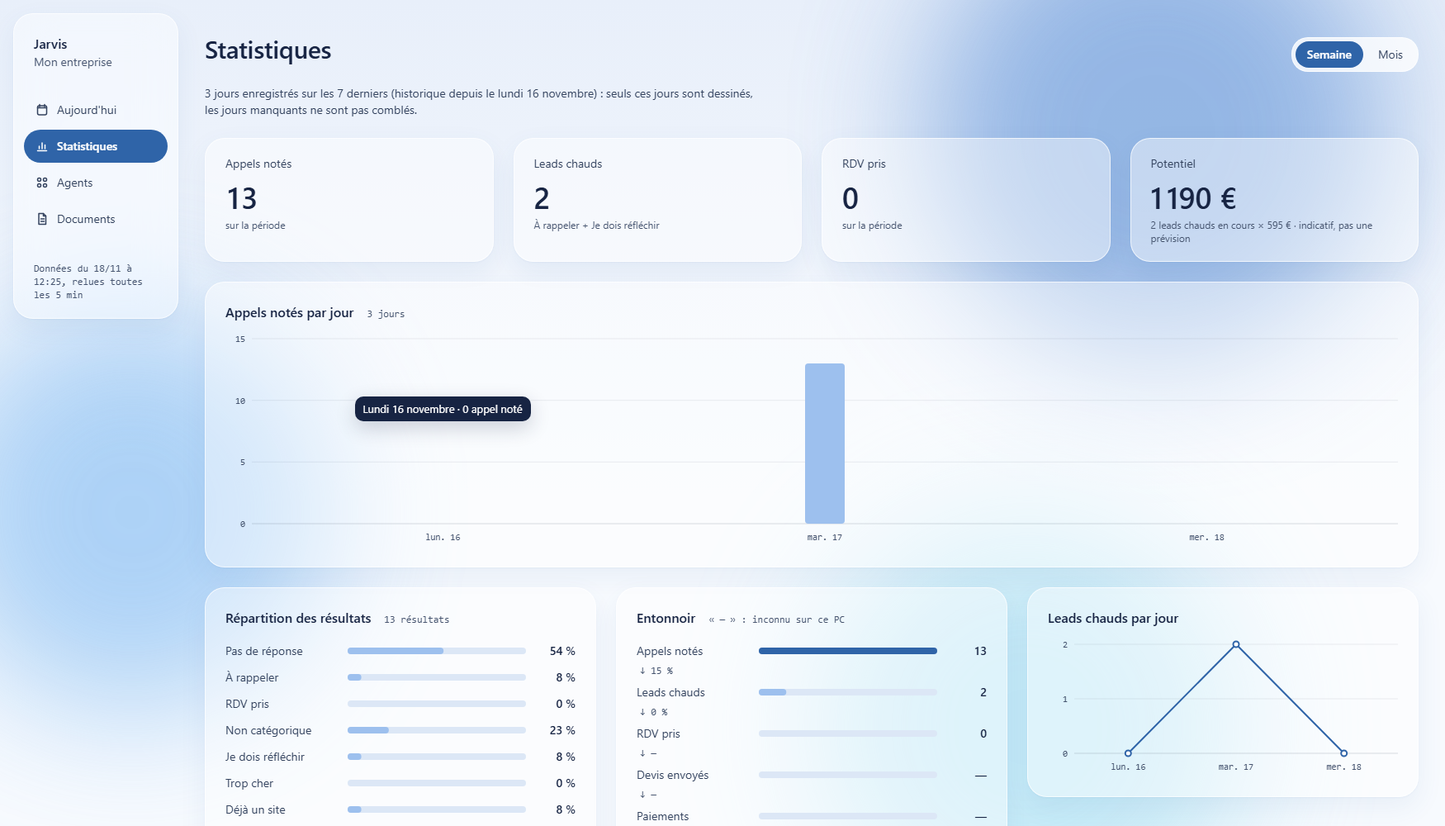
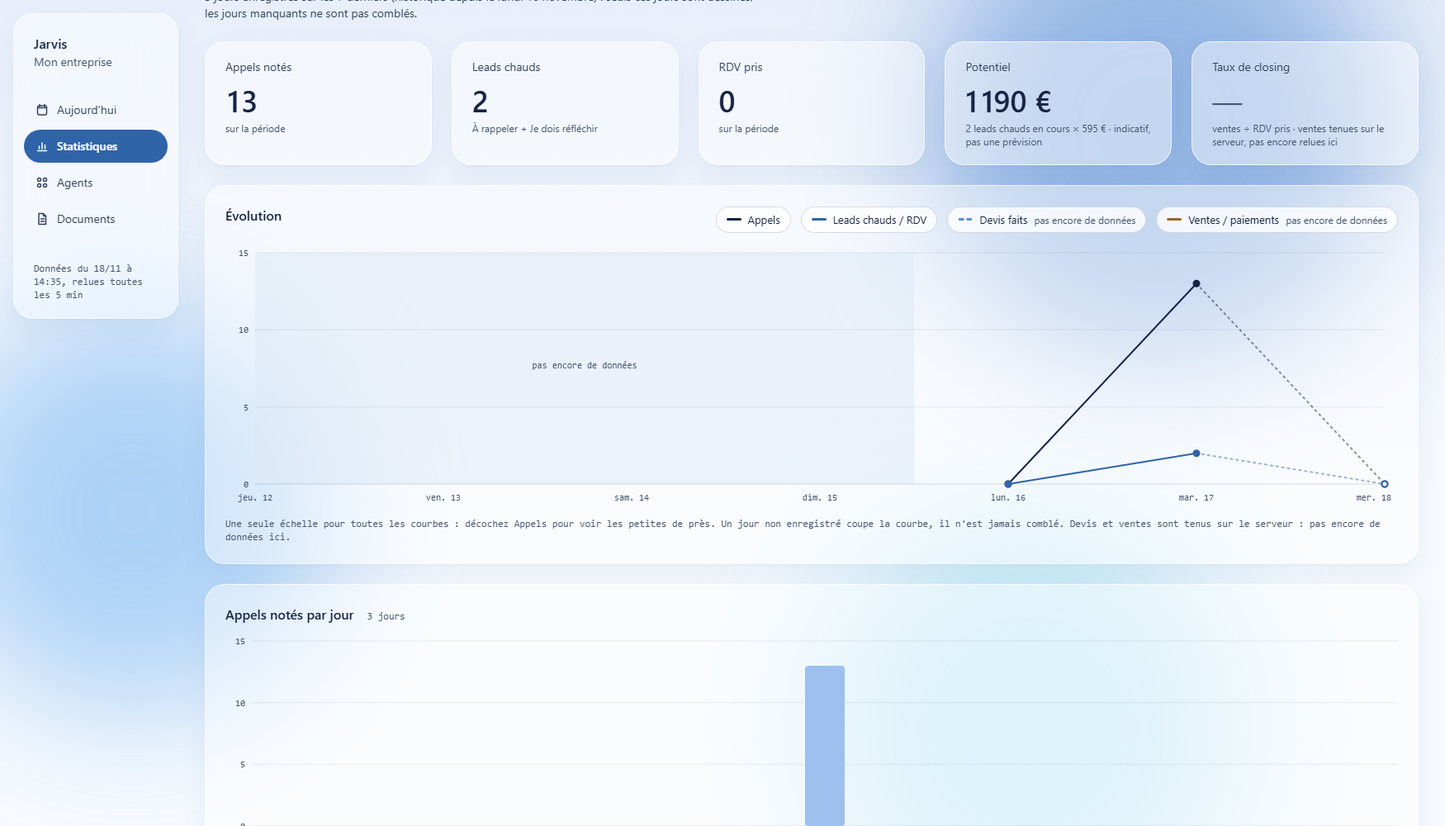
Statistiques : graphique Évolution façon bourse (une courbe cochable par catégorie : appels, leads chauds + RDV, devis en tirets, ventes en ocre ; 7 jours, 30 jours, 1 an sur un vrai axe du temps ; zone « pas encore de données » avant le 16/11 ; un jour absent ou inconnu coupe la courbe ; jour en co
Claude-Session: 57a2f80a-2698-4f2e-b82a-0145204d23a1

diff --git a/dashboard/index.html b/dashboard/index.html
@@ -155,7 +155,7 @@
   .choix { display: inline-flex; gap: 4px; padding: 4px; border-radius: 20px; background: var(--verre-fort); border: 1px solid var(--bord-verre); }
   .choix button { height: 32px; padding: 0 14px; border: 0; border-radius: 16px; background: none; color: var(--doux); cursor: pointer; transition: background-color .2s var(--courbe), color .2s var(--courbe); }
   .choix button[aria-pressed="true"] { background: var(--bleu); color: #fff; font-weight: 500; }
-  .stat-ligne { display: grid; grid-template-columns: repeat(4, minmax(0, 1fr)); gap: 24px; margin: 0; padding: 0; list-style: none; }
+  .stat-ligne { display: grid; grid-template-columns: repeat(5, minmax(0, 1fr)); gap: 24px; margin: 0; padding: 0; list-style: none; }
   .stat-ligne li { padding: 20px 24px; display: flex; flex-direction: column; }
   .stat-ligne span { color: var(--doux); } .stat-ligne b { font-size: 36px; line-height: 44px; font-weight: 600; letter-spacing: -.02em; font-variant-numeric: tabular-nums; margin: 8px 0 0; }
   .stat-ligne b.manque { color: var(--faible); font-weight: 400; } .stat-ligne small { color: var(--faible); font-size: 12px; line-height: 16px; margin-top: 4px; }
@@ -172,7 +172,14 @@
   .taux { padding: 0 0 0 4px; margin: 0 0 2px; color: var(--faible); font-family: var(--mono); font-size: 12px; line-height: 16px; }
   .phrase-histo { color: var(--doux); margin: -8px 0 24px; max-width: 90ch; }
   #bulle { position: fixed; z-index: 20; pointer-events: none; padding: 6px 10px; border-radius: 10px; background: var(--nuit); color: #fff; font-size: 13px; line-height: 18px; white-space: nowrap; box-shadow: 0 8px 24px rgba(23,36,67,.2); opacity: 0; transition: opacity .12s var(--courbe); }
-  #bulle.vu { opacity: 1; }
+  #bulle.vu { opacity: 1; } #bulle { white-space: pre; }
+  .courbes { display: flex; flex-wrap: wrap; gap: 8px; justify-content: flex-end; }
+  .courbes button { display: inline-flex; align-items: center; gap: 8px; min-height: 32px; padding: 0 12px; border-radius: 16px; border: 1px solid var(--ligne-forte); background: var(--verre-fort); color: var(--texte); cursor: pointer; font: inherit; font-size: 13px; transition: opacity .2s var(--courbe); }
+  .courbes button[aria-pressed="false"] { opacity: .5; } .courbes small { color: var(--faible); font-size: 12px; }
+  .trait { width: 18px; border-top: 3px solid var(--c); border-radius: 2px; } .trait.tirets { border-top-style: dashed; }
+  .graphe rect.col { fill: transparent; } .graphe rect.col:hover, .graphe rect.col:focus-visible { fill: rgba(47,100,168,.07); stroke: none; }
+  .note-cours { margin: 12px 0 0; }
+  .metiers { display: grid; grid-template-columns: repeat(2, minmax(0, 1fr)); column-gap: 48px; } .metiers .part { grid-template-columns: 180px minmax(0, 1fr) 48px; }
 
   /* Agents : une ligne par agent (ce qu'il fait, heure prévue, dernier passage, état) */
   .table-ag { padding: 8px 16px 12px; margin-bottom: 24px; }
@@ -185,7 +192,7 @@
   .etat { font-size: 13px; } .etat.place { color: var(--bleu); font-weight: 500; } .etat.desactive { color: var(--faible); } .etat.construire { color: var(--doux); text-decoration: underline dotted; text-underline-offset: 3px; }
   .lien-fichier { display: inline-flex; margin: 0 0 16px; }
 
-  @media (max-width: 1180px) { .chiffres { grid-template-columns: repeat(2, minmax(0, 1fr)); } .chiffre:last-child:nth-child(odd) { grid-column: span 2; } .trois { grid-template-columns: 1fr 1fr; } .stat-ligne { grid-template-columns: repeat(2, minmax(0, 1fr)); } }
+  @media (max-width: 1180px) { .chiffres { grid-template-columns: repeat(2, minmax(0, 1fr)); } .chiffre:last-child:nth-child(odd) { grid-column: span 2; } .trois { grid-template-columns: 1fr 1fr; } .stat-ligne { grid-template-columns: repeat(2, minmax(0, 1fr)); } .stat-ligne li:last-child:nth-child(odd) { grid-column: span 2; } }
   @media (max-width: 760px) {
     /* La barre latérale devient une barre du bas */
     .cote { top: auto; left: 12px; right: 12px; bottom: 12px; width: auto; padding: 6px; flex-direction: row; }
@@ -212,7 +219,8 @@
     #panneau { bottom: 88px; }
     .trois { grid-template-columns: 1fr; gap: 16px; margin-top: 16px; } .principal, .petit { padding: 20px 16px; } .principal { margin-top: 16px; }
     .stat-ligne { gap: 16px; } .stat-ligne li { padding: 16px; } .stat-ligne b { font-size: 28px; line-height: 36px; }
-    .part { grid-template-columns: 112px minmax(0, 1fr) 44px; gap: 8px; }
+    .part, .metiers .part { grid-template-columns: 112px minmax(0, 1fr) 44px; gap: 8px; } .metiers { grid-template-columns: 1fr; }
+    .courbes { justify-content: flex-start; } .courbes button { font-size: 12px; padding: 0 10px; }
     .table-ag { padding: 4px 8px 8px; }
     .rang { grid-template-columns: 16px minmax(0, 1fr) auto; row-gap: 2px; } .rang.entete { display: none; }
     .rang .prevu { grid-column: 2; color: var(--faible); font-size: 12px; } .rang .passe { grid-column: 3; grid-row: 1; justify-self: end; } .rang .etat { grid-column: 3; grid-row: 2; justify-self: end; }
@@ -253,13 +261,13 @@
   };
   var VUES = [["jour", "Aujourd'hui"], ["stats", "Statistiques"], ["agents", "Agents"], ["docs", "Documents"]];
   var FICHIERS = { a_faire: "../B2B/docs/TODO-B2B.md", journal: "../B2B/docs/JOURNAL-B2B.md", idees: "../B2B/docs/IDEES-MASTER.md" };   // liens en lecture seule (le fichier tel quel, dans un nouvel onglet)
-  var H = null, periode = "semaine";
+  var H = null, periode = "semaine", COCHES = { appels: true, chauds: true, devis: true, paiements: true };
   var DOCS = [["pipeline", "Pipeline"], ["sources", "Sources des chiffres"], ["a_faire", "À faire"], ["journal", "Journal"], ["decisions", "Décisions"], ["idees", "Idées"]];
   var JOURS = ["dimanche", "lundi", "mardi", "mercredi", "jeudi", "vendredi", "samedi"], MOIS = ["janvier", "février", "mars", "avril", "mai", "juin", "juillet", "août", "septembre", "octobre", "novembre", "décembre"];
   var VEDETTE = "appels", CLE = "paiements";   // la carte du haut, et le chiffre qui garde l'ocre
   var A = null, V = null, D = null, vue = "jour", doc = "a_faire", choisi = null, recherche = "";
   try {
-    vue = localStorage.getItem("jarvis-vue") || "jour"; periode = localStorage.getItem("jarvis-periode") === "mois" ? "mois" : "semaine"; doc = localStorage.getItem("jarvis-doc") || "a_faire";
+    vue = localStorage.getItem("jarvis-vue") || "jour"; periode = { mois: "mois", an: "an" }[localStorage.getItem("jarvis-periode")] || "semaine"; var cc = JSON.parse(localStorage.getItem("jarvis-courbes") || "null"); if (cc) for (var k in COCHES) if (typeof cc[k] === "boolean") COCHES[k] = cc[k]; doc = localStorage.getItem("jarvis-doc") || "a_faire";
     var ancien = localStorage.getItem("jarvis-onglet");   // ancienne page à onglets
     if (!localStorage.getItem("jarvis-vue") && ancien && DOCS.some(function (d) { return d[0] === ancien; })) { vue = "docs"; doc = ancien; }
   } catch (e) {}
@@ -269,7 +277,7 @@
   function val(v) { return v == null ? "—" : v; }
   function fmt(n) { return n == null ? "—" : Number(n).toLocaleString("fr-FR"); }
   function montrer(x) { return x.valeur == null ? "—" : x.unite === "€" ? fmt(x.valeur) + " €" : x.valeur; }
-  function memoriser() { try { localStorage.setItem("jarvis-vue", vue); localStorage.setItem("jarvis-doc", doc); localStorage.setItem("jarvis-periode", periode); } catch (e) {} }
+  function memoriser() { try { localStorage.setItem("jarvis-vue", vue); localStorage.setItem("jarvis-doc", doc); localStorage.setItem("jarvis-periode", periode); localStorage.setItem("jarvis-courbes", JSON.stringify(COCHES)); } catch (e) {} }
   function aujourdhui() { return (V && V.jour) || (A && A.chiffres && A.chiffres.jour) || ""; }
   function dateLongue(j) { var d = new Date(j + "T12:00:00"); if (!j || isNaN(d)) return ""; var s = JOURS[d.getDay()] + " " + d.getDate() + " " + MOIS[d.getMonth()]; return s.charAt(0).toUpperCase() + s.slice(1); }
   function quand(t) {   // « 07:30 » aujourd'hui, « hier 19:30 », sinon « 15 nov. »
@@ -360,23 +368,30 @@
   // --- Statistiques : historique (data/historique.js), graphiques SVG dessinés à la largeur réelle du bloc ---
   function jourCourt(j) { var d = new Date(j + "T12:00:00"); return ["dim.", "lun.", "mar.", "mer.", "jeu.", "ven.", "sam."][d.getDay()] + " " + d.getDate(); }
   function fenetre() {   // les jours ENREGISTRÉS des 7 ou 30 derniers jours ; un jour absent n'est jamais rempli
-    var n = periode === "mois" ? 30 : 7, j = aujourdhui() || new Date().toISOString().slice(0, 10), d = new Date(j + "T12:00:00"); d.setDate(d.getDate() - n + 1);
+    var n = periode === "an" ? 365 : periode === "mois" ? 30 : 7, j = aujourdhui() || new Date().toISOString().slice(0, 10), d = new Date(j + "T12:00:00"); d.setDate(d.getDate() - n + 1);
     var deb = d.getFullYear() + "-" + ("0" + (d.getMonth() + 1)).slice(-2) + "-" + ("0" + d.getDate()).slice(-2);
-    return { n: n, jours: (H && H.jours || []).filter(function (e) { return e.date >= deb && e.date <= j; }) };
+    return { n: n, deb: deb, fin: j, jours: (H && H.jours || []).filter(function (e) { return e.date >= deb && e.date <= j; }) };
   }
   function somme(js, k) { var c = js.filter(function (e) { return typeof e[k] === "number"; }); return c.length ? c.reduce(function (s, e) { return s + e[k]; }, 0) : null; }
   function pc(a, b) { return a == null || b == null || !b ? "—" : Math.round(100 * a / b) + " %"; }
   function vueStats() {
-    var h = '<div class="tete"><h1>Statistiques</h1><span class="droite"><span class="choix" role="group" aria-label="Période"><button data-periode="semaine" aria-pressed="' + (periode === "semaine") + '">Semaine</button><button data-periode="mois" aria-pressed="' + (periode === "mois") + '">Mois</button></span></span></div>';
+    var h = '<div class="tete"><h1>Statistiques</h1><span class="droite"><span class="choix" role="group" aria-label="Période">' + [["semaine", "7 jours"], ["mois", "30 jours"], ["an", "1 an"]].map(function (p) { return '<button data-periode="' + p[0] + '" aria-pressed="' + (periode === p[0]) + '">' + p[1] + "</button>"; }).join("") + ' </span></span></div>';
     if (!H || !(H.jours || []).length) return h + '<div class="verre accueil-vide"><h2>Pas encore d\'historique</h2><p>Le fichier data\\historique.json est écrit par outils\\agents-json.py (tâche Jarvis-Tableau-PC toutes les 15 min, ou l\'icône du bureau). Il apparaîtra ici dès le premier passage.</p></div>';
     var f = fenetre(), js = f.jours, pot = (V && V.chiffres || []).filter(function (x) { return x.cle === "potentiel"; })[0];
     h += '<p class="phrase-histo">' + (js.length < f.n ? js.length + " jour" + (js.length > 1 ? "s" : "") + " enregistré" + (js.length > 1 ? "s" : "") + " sur les " + f.n + " derniers (historique depuis le " + esc(dateLongue(H.jours[0].date).toLowerCase()) + ") : seuls ces jours sont dessinés, les jours manquants ne sont pas comblés."
-      : "Les " + f.n + " derniers jours.") + "</p>";
-    var ap = somme(js, "appels"), ch = somme(js, "leads_chauds"), rv = somme(js, "rdv");
+      : "Les " + f.n + " derniers jours.") + (periode === "an" ? " Vue 1 an : elle restera presque vide les premières semaines ; la courbe part du bord droit et s'allonge chaque jour." : "") + "</p>";
+    var ap = somme(js, "appels"), ch = somme(js, "leads_chauds"), rv = somme(js, "rdv"), vt = somme(js, "paiements");
+    var clo = vt == null ? ["—", "ventes tenues sur le serveur, pas encore relues ici"] : !rv ? ["—", "aucun RDV pris sur la période"] : [pc(vt, rv), vt + " vente" + (vt > 1 ? "s" : "") + " pour " + rv + " RDV pris"];
     h += '<ul class="stat-ligne">' + [["Appels notés", ap, "sur la période"], ["Leads chauds", ch, "À rappeler + Je dois réfléchir"], ["RDV pris", rv, "sur la période"]].map(function (x) {
       return '<li class="verre"><span>' + x[0] + "</span><b" + (x[1] == null ? ' class="manque"' : "") + ">" + fmt(x[1]) + "</b><small>" + x[2] + "</small></li>"; }).join("") +
       '<li class="verre"><span>Potentiel</span><b' + (pot && pot.valeur != null ? "" : ' class="manque"') + ">" + (pot ? esc(montrer(pot)) : "—") + "</b><small" + (pot && pot.valeur == null ? ' title="' + esc(pot.raison) + '"' : "") + ">" +
-      (pot && pot.valeur != null ? esc(pot.leads) + " leads chauds en cours × " + esc(fmt(pot.prix)) + " € · indicatif, pas une prévision" : "indicatif, pas une prévision · " + (pot ? simple(pot.raison) : "pas encore calculé")) + "</small></li></ul>";
+      (pot && pot.valeur != null ? esc(pot.leads) + " leads chauds en cours × " + esc(fmt(pot.prix)) + " € · indicatif, pas une prévision" : "indicatif, pas une prévision · " + (pot ? simple(pot.raison) : "pas encore calculé")) + "</small></li>" +
+      '<li class="verre"><span>Taux de closing</span><b' + (clo[0] === "—" ? ' class="manque"' : "") + ">" + clo[0] + "</b><small>ventes ÷ RDV pris · " + esc(clo[1]) + "</small></li></ul>";
+    h += '<section class="principal verre"><div class="tete"><h2>Évolution</h2><span class="droite courbes" role="group" aria-label="Courbes affichées">' + SERIES.map(function (s) {
+      var n = js.filter(function (e) { return s[3](e) != null; }).length;
+      return '<button data-courbe="' + s[0] + '" aria-pressed="' + COCHES[s[0]] + '"><i class="trait' + (s[4] ? " tirets" : "") + '" style="--c:' + s[2] + '"></i>' + s[1] + (n ? "" : " <small>pas encore de données</small>") + "</button>"; }).join("") +
+      '</span></div><div class="graphe" data-g="cours"></div><p class="meta note-cours">Une seule échelle pour toutes les courbes : décochez Appels pour voir les petites de près. Un jour non enregistré coupe la courbe, il n\'est jamais comblé.' +
+      (js.some(function (e) { return e.devis != null || e.paiements != null; }) ? "" : " Devis et ventes sont tenus sur le serveur : pas encore de données ici.") + "</p></section>";
     h += '<section class="principal verre"><div class="tete"><h2>Appels notés par jour</h2><span class="meta">' + js.length + " jour" + (js.length > 1 ? "s" : "") + '</span></div><div class="graphe" data-g="barres"></div></section>';
     var res = (H.resultats || []), tot = 0, parts = res.map(function (r) { var n = js.reduce(function (s, e) { return s + ((e.resultats || {})[r] || 0); }, 0); tot += n; return [r, n]; });
     h += '<div class="trois"><section class="petit verre"><div class="tete"><h2>Répartition des résultats</h2><span class="meta">' + fmt(tot) + " résultats</span></div>" +
@@ -389,6 +404,14 @@
         (x[1] ? '<rect width="' + Math.max(1.5, 100 * x[1] / max).toFixed(1) + '%" height="8" rx="4" fill="' + (i === 4 ? "var(--ocre)" : i ? "var(--bleu-clair)" : "var(--bleu)") + '"/>' : "") + "</svg><b" + (i === 4 && x[1] ? ' style="color:var(--ocre)"' : "") + ">" + fmt(x[1]) + "</b></div>";
     }).join("") + "</section>";
     h += '<section class="petit verre"><div class="tete"><h2>Leads chauds par jour</h2></div><div class="graphe" data-g="courbe"></div></section></div>';
+    var mt = {}; js.forEach(function (e) { for (var m in e.metiers || {}) { var x = mt[m] = mt[m] || { appels: 0, chauds: 0, rdv: 0 }; for (var c in x) x[c] += e.metiers[m][c] || 0; } });
+    var lm = Object.keys(mt).sort(function (a, b) { return mt[b].appels - mt[a].appels || a.localeCompare(b, "fr"); }), mm = Math.max.apply(null, lm.map(function (m) { return mt[m].appels; }).concat([1]));
+    h += '<section class="principal verre"><div class="tete"><h2>Par métier</h2><span class="meta">appels notés, dont leads chauds + RDV en bleu foncé</span></div>' + (lm.length ? '<div class="metiers">' + lm.map(function (m) {
+      var x = mt[m], q = x.chauds + x.rdv;
+      return '<div class="part" data-bulle="' + esc(m + " : " + x.appels + " appel" + (x.appels > 1 ? "s" : "") + " noté" + (x.appels > 1 ? "s" : "") + ", " + x.chauds + " lead" + (x.chauds > 1 ? "s" : "") + " chaud" + (x.chauds > 1 ? "s" : "") + ", " + x.rdv + " RDV (" + pc(q, x.appels) + ")") + '" tabindex="0"><span>' + esc(m) +
+        '</span><svg width="100%" height="8" aria-hidden="true"><rect width="100%" height="8" rx="4" fill="var(--bleu-pale)"/><rect width="' + Math.max(1.5, 100 * x.appels / mm).toFixed(1) + '%" height="8" rx="4" fill="var(--bleu-clair)"/>' +
+        (q ? '<rect width="' + Math.max(1.5, 100 * q / mm).toFixed(1) + '%" height="8" rx="4" fill="var(--bleu)"/>' : "") + "</svg><b>" + x.appels + "</b></div>"; }).join("") + "</div>"
+      : '<p class="vide">Pas encore de données par métier sur la période (colonne Métier des feuilles de Sid).</p>') + "</section>";
     return h;
   }
   function axes(w, h, g, max, pas) {   // grille discrète + libellés mono à gauche
@@ -397,9 +420,53 @@
     return s;
   }
   function echelle(m) { var pas = m <= 4 ? 1 : m <= 10 ? 2 : m <= 25 ? 5 : m <= 50 ? 10 : m <= 120 ? 20 : 50; return [Math.ceil(Math.max(m, 1) / pas) * pas, pas]; }
+  var SERIES = [   // clé, libellé, couleur, valeur d'un jour (null = inconnu), tirets
+    ["appels", "Appels", "var(--nuit)", function (e) { return typeof e.appels === "number" ? e.appels : null; }],
+    ["chauds", "Leads chauds / RDV", "var(--bleu)", function (e) { return e.leads_chauds == null && e.rdv == null ? null : (e.leads_chauds || 0) + (e.rdv || 0); }],
+    ["devis", "Devis faits", "#5B8FD0", function (e) { return typeof e.devis === "number" ? e.devis : null; }, true],
+    ["paiements", "Ventes / paiements", "var(--ocre)", function (e) { return typeof e.paiements === "number" ? e.paiements : null; }]];
+  function decaler(j, k) { var d = new Date(j + "T12:00:00"); d.setDate(d.getDate() + k); return d.getFullYear() + "-" + ("0" + (d.getMonth() + 1)).slice(-2) + "-" + ("0" + d.getDate()).slice(-2); }
+  function ecart(a, b) { return Math.round((new Date(b + "T12:00:00") - new Date(a + "T12:00:00")) / 864e5); }
+  function cours(el, f) {   // une courbe par catégorie cochée sur un vrai axe du temps ; un jour absent ou inconnu coupe la ligne, rien n'est comblé
+    var on = SERIES.filter(function (s) { return COCHES[s[0]]; }), js = f.jours, vals = [];
+    on.forEach(function (s) { js.forEach(function (e) { var v = s[3](e); if (v != null) vals.push(v); }); });
+    if (!on.length) { el.innerHTML = '<p class="vide">Aucune courbe cochée</p>'; return; }
+    if (!vals.length) { el.innerHTML = '<p class="vide">Pas encore de données pour ' + (on.length > 1 ? "les courbes cochées" : "cette courbe") + " sur la période</p>"; return; }
+    var w = Math.max(200, el.clientWidth), h = w < 500 ? 240 : 320, g = { l: 36, r: 16, b: 28, t: 12 }, n = f.n, larg = w - g.l - g.r, pasx = n > 1 ? larg / (n - 1) : larg;
+    var X = function (j) { return g.l + (n > 1 ? pasx * ecart(f.deb, j) : larg / 2); }, e = echelle(Math.max.apply(null, vals)), max = e[0];
+    var Y = function (v) { return h - g.b - (h - g.b - g.t) * v / max; }, s = "", d0 = H.jours[0].date;
+    if (d0 > f.deb) {   // avant le premier jour enregistré : zone pâle, jamais une ligne à 0
+      var xa = X(d0) - pasx / 2;
+      if (xa > g.l) s += '<rect x="' + g.l + '" y="' + g.t + '" width="' + (xa - g.l).toFixed(1) + '" height="' + (h - g.b - g.t) + '" fill="var(--bleu-pale)" opacity=".5"/>' + (xa - g.l > 150 ? '<text x="' + ((g.l + xa) / 2).toFixed(1) + '" y="' + ((h - g.b + g.t) / 2) + '" text-anchor="middle">pas encore de données</text>' : "");
+    }
+    s += axes(w - g.r, h, g, max, e[1]);
+    var MC = ["janv.", "févr.", "mars", "avr.", "mai", "juin", "juil.", "août", "sept.", "oct.", "nov.", "déc."], k;
+    if (n > 60) { for (k = 0; k < n; k++) { var j = decaler(f.deb, k); if (j.slice(8) === "01") s += '<text x="' + X(j).toFixed(1) + '" y="' + (h - 8) + '" text-anchor="middle">' + MC[+j.slice(5, 7) - 1] + "</text>"; } }
+    else { var pas = Math.ceil(n / Math.max(1, Math.floor(larg / 64))); for (k = n - 1; k >= 0; k -= pas) { var j2 = decaler(f.deb, k); s += '<text x="' + X(j2).toFixed(1) + '" y="' + (h - 8) + '" text-anchor="' + (k === n - 1 && n > 1 ? "end" : "middle") + '"' + (k === n - 1 && n > 1 ? ' dx="8"' : "") + ">" + jourCourt(j2) + "</text>"; } }
+    var auj = aujourdhui();
+    js.forEach(function (x) {   // colonne de survol : toutes les courbes cochées ce jour-là
+      var t = dateLongue(x.date) + (x.date === auj ? " (en cours)" : "") + on.map(function (q) { var v = q[3](x); return "\n" + q[1] + " : " + (v == null ? "pas encore de données" : fmt(v)) + (q[0] === "chauds" && v != null ? " (" + (x.leads_chauds || 0) + " chauds, " + (x.rdv || 0) + " RDV)" : ""); }).join("");
+      var x0 = Math.max(g.l, X(x.date) - pasx / 2), x1 = Math.min(w - g.r + 8, X(x.date) + pasx / 2);
+      s += '<rect class="col" x="' + x0.toFixed(1) + '" y="' + g.t + '" width="' + Math.max(6, x1 - x0).toFixed(1) + '" height="' + (h - g.b - g.t) + '" data-bulle="' + esc(t) + '" tabindex="0"/>';
+    });
+    on.forEach(function (q) {
+      var seg = [], segs = [];
+      js.forEach(function (x, i) { var v = q[3](x), suite = i > 0 && ecart(js[i - 1].date, x.date) === 1; if (v == null || !suite) { if (seg.length) segs.push(seg); seg = []; } if (v != null) seg.push([X(x.date), Y(v), x.date === auj]); });
+      if (seg.length) segs.push(seg);
+      segs.forEach(function (sg) {
+        var enCours = sg.length > 1 && sg[sg.length - 1][2];   // aujourd'hui pas fini : dernier segment en pointillés clairs, jamais lu comme une chute
+        if (enCours) { var a = sg[sg.length - 2], z = sg.pop(); s += '<line x1="' + a[0].toFixed(1) + '" y1="' + a[1].toFixed(1) + '" x2="' + z[0].toFixed(1) + '" y2="' + z[1].toFixed(1) + '" stroke="' + q[2] + '" stroke-width="2" stroke-dasharray="2 5" stroke-linecap="round" opacity=".5" pointer-events="none"/>'; }
+        if (sg.length > 1) s += '<polyline points="' + sg.map(function (p) { return p[0].toFixed(1) + "," + p[1].toFixed(1); }).join(" ") + '" fill="none" stroke="' + q[2] + '" stroke-width="2" stroke-linejoin="round" stroke-linecap="round"' + (q[4] ? ' stroke-dasharray="6 4"' : "") + ' pointer-events="none"/>';
+        if (enCours) sg.push(z);
+        sg.forEach(function (p) { if (n <= 31 || sg.length === 1 || p[2]) s += '<circle cx="' + p[0].toFixed(1) + '" cy="' + p[1].toFixed(1) + '" r="3.5" fill="' + (p[2] ? "#fff" : q[2]) + '" stroke="' + q[2] + '" stroke-width="2" pointer-events="none"/>'; });
+      });
+    });
+    el.innerHTML = '<svg width="' + w + '" height="' + h + '" viewBox="0 0 ' + w + " " + h + '" role="img" aria-label="Évolution sur ' + n + " jours : " + on.map(function (q) { return q[1]; }).join(", ") + '">' + s + "</svg>";
+  }
   function graphes() {
     var f = fenetre(), js = f.jours;
     [].forEach.call(document.querySelectorAll(".graphe"), function (el) {
+      if (el.dataset.g === "cours") { cours(el, f); return; }
       var w = Math.max(200, el.clientWidth), barres = el.dataset.g === "barres", h = barres ? (w < 500 ? 200 : 260) : 168, g = { l: 32, b: 28, t: 8 }, k = barres ? "appels" : "leads_chauds";
       var pts = js.filter(function (e) { return typeof e[k] === "number"; });
       if (!pts.length) { el.innerHTML = '<p class="vide">Aucun jour enregistré sur la période</p>'; return; }
@@ -495,6 +562,7 @@
     var b = e.target.closest("[data-vue]"); if (b) { vue = b.dataset.vue; memoriser(); rendre(); window.scrollTo(0, 0); return; }
     var d = e.target.closest("[data-doc]"); if (d) { doc = d.dataset.doc; memoriser(); rendre(); return; }
     var q = e.target.closest("[data-periode]"); if (q) { periode = q.dataset.periode; memoriser(); rendre(); return; }
+    var k = e.target.closest("[data-courbe]"); if (k) { COCHES[k.dataset.courbe] = !COCHES[k.dataset.courbe]; memoriser(); rendre(); return; }
     var c = e.target.closest(".agent, .rang:not(.entete)"); if (c) { panneau(c.dataset.nom); rendre(); }
   });
   document.addEventListener("keydown", function (e) { if (e.key === "Escape" && choisi) { panneau(null); rendre(); } });

diff --git a/outils/agents-json.py b/outils/agents-json.py
@@ -305,10 +305,31 @@ def feuilles_sid(rs):
             if not rs.TITRE_SID.fullmatch(nom or ""): continue
             lignes = list(csv.reader(io.StringIO(d.lire_feuille_csv(i))))
             if not lignes or "Résultat" not in lignes[0]: continue
-            k = lignes[0].index("Résultat"); vals = [l[k].strip() for l in lignes[1:] if k < len(l) and l[k].strip()]
-            out.append({"modifiee": rs._jour_paris(mod), "resultats": {v: vals.count(v) for v in RESULTATS}, "avec": len(vals)})
+            k = lignes[0].index("Résultat"); km = lignes[0].index("Métier") if "Métier" in lignes[0] else None
+            notees = [l for l in lignes[1:] if k < len(l) and l[k].strip()]; vals = [l[k].strip() for l in notees]
+            out.append({"modifiee": rs._jour_paris(mod), "resultats": {v: vals.count(v) for v in RESULTATS}, "avec": len(vals),
+                        "metiers": compter_metiers((l[km] if km is not None and km < len(l) else "", l[k].strip()) for l in notees)})
         return True, out
     except Exception as e: return False, f"feuilles de Sid illisibles ({type(e).__name__})"
+
+
+def compter_metiers(paires):
+    """{métier: {appels, chauds, rdv}} à partir de paires (Métier, Résultat) des lignes notées ; métier vide = « Non renseigné ». Aucun nom d'entreprise."""
+    out = {}
+    for m, r in paires:
+        m = " ".join(str(m or "").split()); m = (m[:1].upper() + m[1:].lower()) if m else "Non renseigné"
+        x = out.setdefault(m, {"appels": 0, "chauds": 0, "rdv": 0}); x["appels"] += 1; x["chauds"] += r in CHAUDS; x["rdv"] += r == "RDV pris"
+    return out
+
+
+def metiers_du_jour(feuilles, jour):
+    out = {}
+    for f in feuilles:
+        if f["modifiee"] != jour: continue
+        for m, x in (f.get("metiers") or {}).items():
+            y = out.setdefault(m, {"appels": 0, "chauds": 0, "rdv": 0})
+            for c in y: y[c] += int(x.get(c, 0) or 0)
+    return out
 
 
 def devis_envoyes(jour):
@@ -355,6 +376,9 @@ def historique(maintenant=None, v=None, feuilles=None):
     a = c.get("appels") or {}
     if a.get("valeur") is not None and isinstance(a.get("repartition"), dict):
         fusionner(jours, entree(auj, a["valeur"], a["repartition"], (c.get("devis") or {}).get("valeur"), (c.get("paiements") or {}).get("valeur"), "du jour"), auj)
+    if feuilles is not None:      # répartition par métier (18/11/2026) : ajoutée aux jours qui ne l'ont pas encore, recalculée pour aujourd'hui seulement
+        for j, e in jours.items():
+            if j == auj or "metiers" not in e: e["metiers"] = metiers_du_jour(feuilles, j)
     return {"_aide": "Écrit par outils/agents-json.py : une entrée par jour (comptes seulement). null = inconnu sur ce PC, jamais 0.", "maj": maintenant.strftime("%Y-%m-%d %H:%M:%S"),
             "resultats": RESULTATS, "jours": [jours[k] for k in sorted(jours)]}
 

diff --git a/tests/test_historique_dashboard.py b/tests/test_historique_dashboard.py
@@ -22,7 +22,8 @@ def verifier(cond, texte):
 def res(d=None): return {r: (d or {}).get(r, 0) for r in AJ.RESULTATS}
 
 
-FEUILLES = [{"modifiee": "2026-11-16", "resultats": res({"Pas de réponse": 6, "À rappeler": 2, "RDV pris": 1}), "avec": 9},
+FEUILLES = [{"modifiee": "2026-11-16", "resultats": res({"Pas de réponse": 6, "À rappeler": 2, "RDV pris": 1}), "avec": 9,
+             "metiers": AJ.compter_metiers([("plombier", "À rappeler"), (" Plombier ", "RDV pris"), ("", "Pas de réponse")])},
             {"modifiee": "2026-11-17", "resultats": res({"À rappeler": 1}), "avec": 4},
             {"modifiee": "2026-11-17", "resultats": res({"RDV pris": 2}), "avec": 3}]
 VENTES = {"chiffres": [{"cle": "appels", "valeur": 12, "repartition": res({"À rappeler": 3})}, {"cle": "devis", "valeur": None}, {"cle": "paiements", "valeur": None}]}
@@ -36,6 +37,9 @@ try:
     verifier(all(e["devis"] is None and e["paiements"] is None for e in h["jours"]), "devis et paiements inconnus sur ce PC : null, jamais 0")
     verifier(j["2026-11-18"]["appels"] == 12 and not j["2026-11-18"]["complet"] and j["2026-11-17"]["complet"], "aujourd'hui depuis ventes(), non complet ; jours passés complets")
     verifier(len(j["2026-11-16"]["resultats"]) == 8, "les 8 résultats sont présents pour chaque jour")
+    m = j["2026-11-16"]["metiers"]
+    verifier(m == {"Plombier": {"appels": 2, "chauds": 1, "rdv": 1}, "Non renseigné": {"appels": 1, "chauds": 0, "rdv": 0}}, "répartition par métier : casse et espaces unifiés, métier vide = « Non renseigné »")
+    verifier(j["2026-11-17"]["metiers"] == {} and j["2026-11-18"]["metiers"] == {}, "feuilles sans colonne Métier connue : répartition vide, rien d'inventé")
 
     AJ.HISTO.parent.mkdir(parents=True); AJ.HISTO.write_text(json.dumps(h, ensure_ascii=False), encoding="utf-8")
     plus_bas = [dict(f, avec=1, resultats=res()) for f in FEUILLES]

diff --git a/dashboard/LISEZMOI.md b/dashboard/LISEZMOI.md
@@ -8,7 +8,7 @@ Fichier local `dashboard\index.html`, ouvert par l'icône du bureau « Jarvis - 
 - **Agents** : une carte par pôle, un voyant par agent (bleu plein = passé aujourd'hui, anneau bleu = passé avant, gris = aucun passage visible sur ce PC, losange bleu nuit = erreur).
 - **Mise à jour seule** (18/11) : tâche Windows `Jarvis-Tableau-PC` (pythonw, sans fenêtre, toutes les 15 min et à l'ouverture de session), créée par `outils	ache-dashboard-pc.ps1 -Oui`, retirée par `-Retirer`.
 - **Historique** : `data\historique.json` (+ `historique.js`), hors git, une entrée par jour depuis le 16/11 : appels notés, les 8 résultats, leads chauds, RDV, devis et paiements (`null` = inconnu sur ce PC). Jours passés manquants reconstruits depuis les feuilles « Appels Sid » selon leur jour de **dernière modification** (comme le résumé du soir : une feuille retouchée plus tard compte ce jour-là) ; un jour complet n'est jamais remplacé par un compte plus faible.
-- **Statistiques** : sélecteur Semaine / Mois (7 ou 30 derniers jours, jours manquants non comblés), barres des appels par jour, répartition des résultats, entonnoir avec taux entre étapes, courbe des leads chauds ; SVG maison, infobulle au survol. **Potentiel** = lignes « À rappeler » ou « Je dois réfléchir » de toutes les feuilles de Sid × prix du pack (`B2B\docs\OFFRE-REFERENCE.json`), indicatif.
+- **Statistiques** : période 7 jours / 30 jours / 1 an (jours manquants non comblés) ; graphique **Évolution** (une courbe cochable par catégorie : appels, leads chauds + RDV, devis, ventes en ocre ; vrai axe du temps, zone pâle « pas encore de données » avant le 16/11, segment du jour en cours en pointillés) ; taux de closing (ventes ÷ RDV pris) ; répartition par métier (colonne Métier des feuilles de Sid) ; barres des appels par jour, répartition des résultats, entonnoir avec taux entre étapes, courbe des leads chauds ; SVG maison, infobulle au survol. **Potentiel** = lignes « À rappeler » ou « Je dois réfléchir » de toutes les feuilles de Sid × prix du pack (`B2B\docs\OFFRE-REFERENCE.json`), indicatif.
 - **Agents** : une ligne par agent (rôle en une phrase, heure prévue, dernier passage, état en place / désactivé / à construire). **Documents** : lien « Ouvrir le fichier (lecture seule) » pour À faire, Journal et Idées.
 - **Test** : `python tests\test_ventes_dashboard.py` (silencieux). **Captures** : `node B2B\sites\outils\dashboard-captures.mjs` → `dashboard\apercu\`.
 

diff --git a/B2B/docs/IDEES-MASTER.md b/B2B/docs/IDEES-MASTER.md
@@ -74,12 +74,13 @@ Chaque idée est notée à la date où Liam la dit. Une idée pas encore faite r
 - 29/10 — Salon vocal « 💼 Travail » : Jarvis compte le temps passé dedans et affiche jour, semaine, mois dans un salon texte.
 - 29/10 — Contenu : Liam se filme pendant ses appels (jamais la voix du prospect sans accord).
 - 05/11 — Serveur : sans internet 5 min → redémarrer la carte Wi-Fi, sinon le PC (1 fois par heure au plus), agents relancés seuls, alerte Discord au retour.
-- 14/11 — Tableau de bord : courbes de la semaine, taux appel → RDV → devis → closing, carte de chaleur des créneaux, motifs de refus, commissions modifiables, pipeline, voyant par agent (heure de dernière exécution à ajouter dans agents-json.py).
+- 14/11 — Tableau de bord : carte de chaleur des créneaux, motifs de refus, commissions modifiables (courbes, taux et voyants faits le 18/11).
 - 14/11 — Méthode Claude Code (vidéo) : boucles avec critère de fin, sous-agents, bon modèle par tâche, /compact après chaque tâche.
 - 15/11 — Obsidian en vue « espace » pour voir les agents (plus tard).
 - 17/11 — Tableau de bord : faire disparaître les « — » du gros PC (état des devis, clé Stripe en lecture seule, journaux du serveur) ; la mise à jour sans clic est faite (tâche Jarvis-Tableau-PC, 15 min, 18/11).
 - 18/11 — Statistiques : dater chaque Résultat dans la feuille de Sid (colonne « Noté le ») pour un historique exact au jour près, au lieu du jour de dernière modification de la feuille.
-- 18/11 — Statistiques : taux RDV par créneau horaire et par métier pour choisir quand et qui Sid appelle (ce qui rapproche le plus d'une vente).
+- 18/11 — Statistiques : taux RDV par créneau horaire pour choisir quand Sid appelle (la répartition par métier est faite).
+- 18/11 — Devis et ventes sur le gros PC : le serveur écrit chaque soir (resume-sid, 19:30) une feuille Google « Chiffres serveur Jarvis » (date, devis envoyés, paiements, comptes seulement) avec le jeton Google qu'il a déjà, et agents-json.py la lit comme les feuilles de Sid. Gratuit, aucun secret dans le dépôt, pas de git push depuis le serveur (il ne fait que tirer).
 - 18/11 — Potentiel : compter un lead chaud une seule fois même s'il est rappelé plusieurs jours (registre commun), et le retirer quand il passe en « RDV pris » ou refus.
 
 ## À trancher (peut-être dépassées, à confirmer par Liam)

diff --git a/B2B/docs/JOURNAL-B2B.md b/B2B/docs/JOURNAL-B2B.md
@@ -73,6 +73,7 @@
 - 2026-11-17 (nuit, gros PC) : tableau de bord clair rapproché des références (carte vedette bleu nuit pour les appels de Sid, 5 cartes en verre avec icône, grande carte Agents par pôle, barre du bas sur mobile, survol de 4 px) ; données inchangées, aucune courbe faute d'historique.
 - 2026-11-17 (nuit, gros PC) : tableau de bord : verre visible (3 formes floues derrière), pleine largeur à 1750 px, carte vedette sans moitié vide, « Non disponible sur ce PC » dans les cartes (détail dans Documents › Sources des chiffres), pôles en petites cartes, barre latérale à la hauteur de son contenu.
 - 2026-11-18 (gros PC) : tableau de bord mis à jour seul (tâche Jarvis-Tableau-PC, 15 min et à l'ouverture de session), historique par jour depuis le 16/11 (dashboard\data\historique.json), page Statistiques, carte Potentiel (leads chauds × 595 €, indicatif), page Agents avec l'état de chacun ; appels-liam désactivé (clé desactive de serveur-taches.json, plus d'alerte Panne).
+- 2026-11-18 (gros PC) : page Statistiques complétée par le graphique Évolution (courbes cochables appels, leads chauds + RDV, devis, ventes ; 7 jours, 30 jours, 1 an), le taux de closing et la répartition par métier ; devis et ventes restent « pas encore de données » tant que le serveur ne les publie pas.
 - 2026-11-18 : agent relances construit et activé (serveur, 08:30 jours ouvrés) : un message Discord « À rappeler aujourd'hui » par jour, 13 tests verts, essai sur les vraies feuilles : Envog Coiffure sortira le 19/11.
 - 2026-11-18 : agent interim construit (résumé du matin des alertes d'intérim de emoliam255 en lecture seule, rappel du lundi, suivi des 14 agences en CSV, commande noter), fermé jusqu'au « go interim » et à l'autorisation Gmail, 11 tests verts ; brouillons CV et mails dans emploi\interim.
 - 2026-11-21 : agent chiffres-serveur construit (une ligne par soir à 19:30 dans la feuille Google « Chiffres serveur Jarvis » : date, devis envoyés, paiements reçus, rien d'autre), fermé jusqu'au « go chiffres-serveur », 17 tests verts ; lecture de cette feuille par le tableau de bord du gros PC encore à faire.

diff --git a/B2B/docs/TODO-B2B.md b/B2B/docs/TODO-B2B.md
@@ -49,7 +49,7 @@ _Mise à jour : 16 nov. 2026, 17 h 30 (le fait est supprimé ; l'historique est 
 - [ ] Faire passer la publication et le déploiement des pages exemples par la garde (non branchés)
 - [ ] CEO Jarvis autonome, pont Discord de Jarvis (connecte: false) : après la 1re vente
 - [ ] Production (design, code, publication) : après la 1re vente
-- [ ] Tableau de bord, suite : courbes de la semaine, taux de closing, commissions ; devis et Stripe lisibles depuis le gros PC (aujourd'hui « — »)
+- [ ] Tableau de bord, suite : devis et ventes du serveur dans l'historique du gros PC (feuille « Chiffres serveur », idée du 18/11 dans IDEES-MASTER, à valider par Liam) ; commissions
 - [ ] Fiche d'accueil client (photos, couleurs, logo, avis, spécificités)
 - [ ] Recruter d'autres call callers (15 %, jamais de closers), dont un spécialiste restaurants
 - [ ] Intérim : créer les alertes sur l'espace candidat des agences, lancer `interim.py gmail-autoriser`, dire « go interim », répondre aux 4 questions du CV, déposer les 7 documents Samsic (toi-même)
